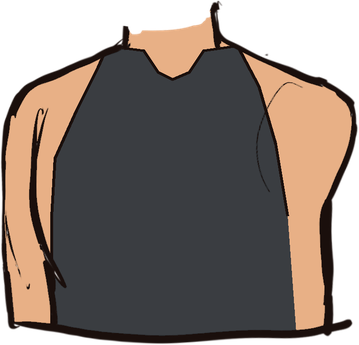
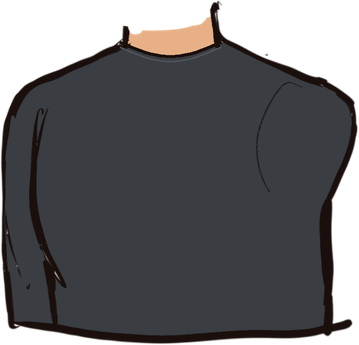
Cast: dark grey long-sleeved top as the default outfit, brass brad at the shoulder
Claude-Session: https://claude.ai/code/session_01EF1kxEHTJYX24hdE1XjJay

Changed region(s): [[0.6435, 0.1449, 0.9805, 0.9565], [0.0, 0.1739, 0.3064, 0.9565], [0.337, 0.1159, 0.6435, 0.2319]]

diff --git a/Docs/assets/characters/puppets/README.md b/Docs/assets/characters/puppets/README.md
@@ -1,4 +1,4 @@
-# puppets (v2.1, Nov 26): the cast C1 to C6
+# puppets (v2.2, Nov 26): the cast C1 to C6
 
 Built by Claude from the design team's PSD (`Art sketch game.psd`): the six inked heads on the
 character sheet, the Big Body and Thin Body torsos and the front arms. **Bigger head = big body.**
@@ -19,7 +19,8 @@ The positions of the parts live in `Puppet.cs` (`Variants`), generated by Claude
 - Eyes: the sketches left the eye openings see-through; they now have eye whites, an iris, a pupil and a catch light.
 - Long hair (C1, C4) is on its own `hairback` layer behind the shoulders, so it can sway. C1's flat
   cut at the bottom is replaced by tapered ends that fall behind the back.
-- Default outfit (v2.1): a dark grey tank top; neck, shoulders and both arms show the character's own skin.
+- Default outfit (v2.2): a dark grey long-sleeved top with a crew neck (the tank top looked odd); the neck shows
+  the character's own skin. A brass paper-fastener marks the shoulder joint, like a paper puppet.
   The seat number is a faint cream stencil on the chest (the teal jumpsuit and zip are gone).
 - Seats on the left of the table are mirrored so they look in toward the middle (`Puppet.FaceRight`);
   the seat number on the chest stays readable.
